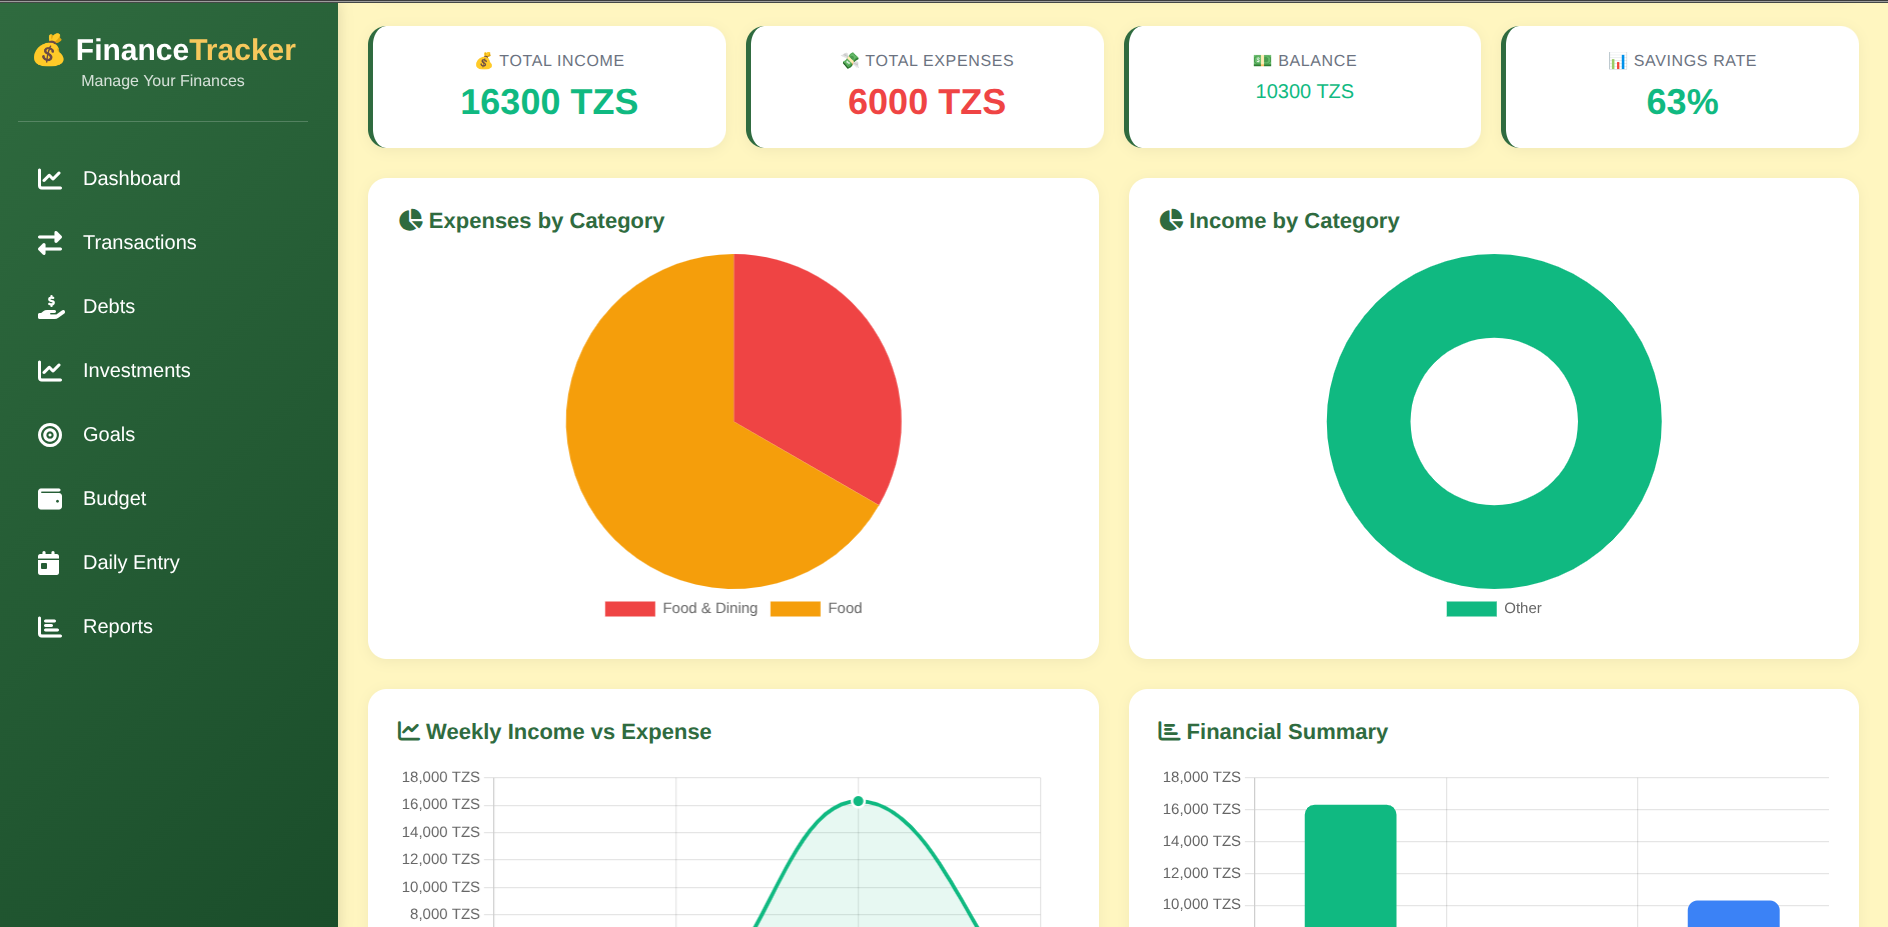
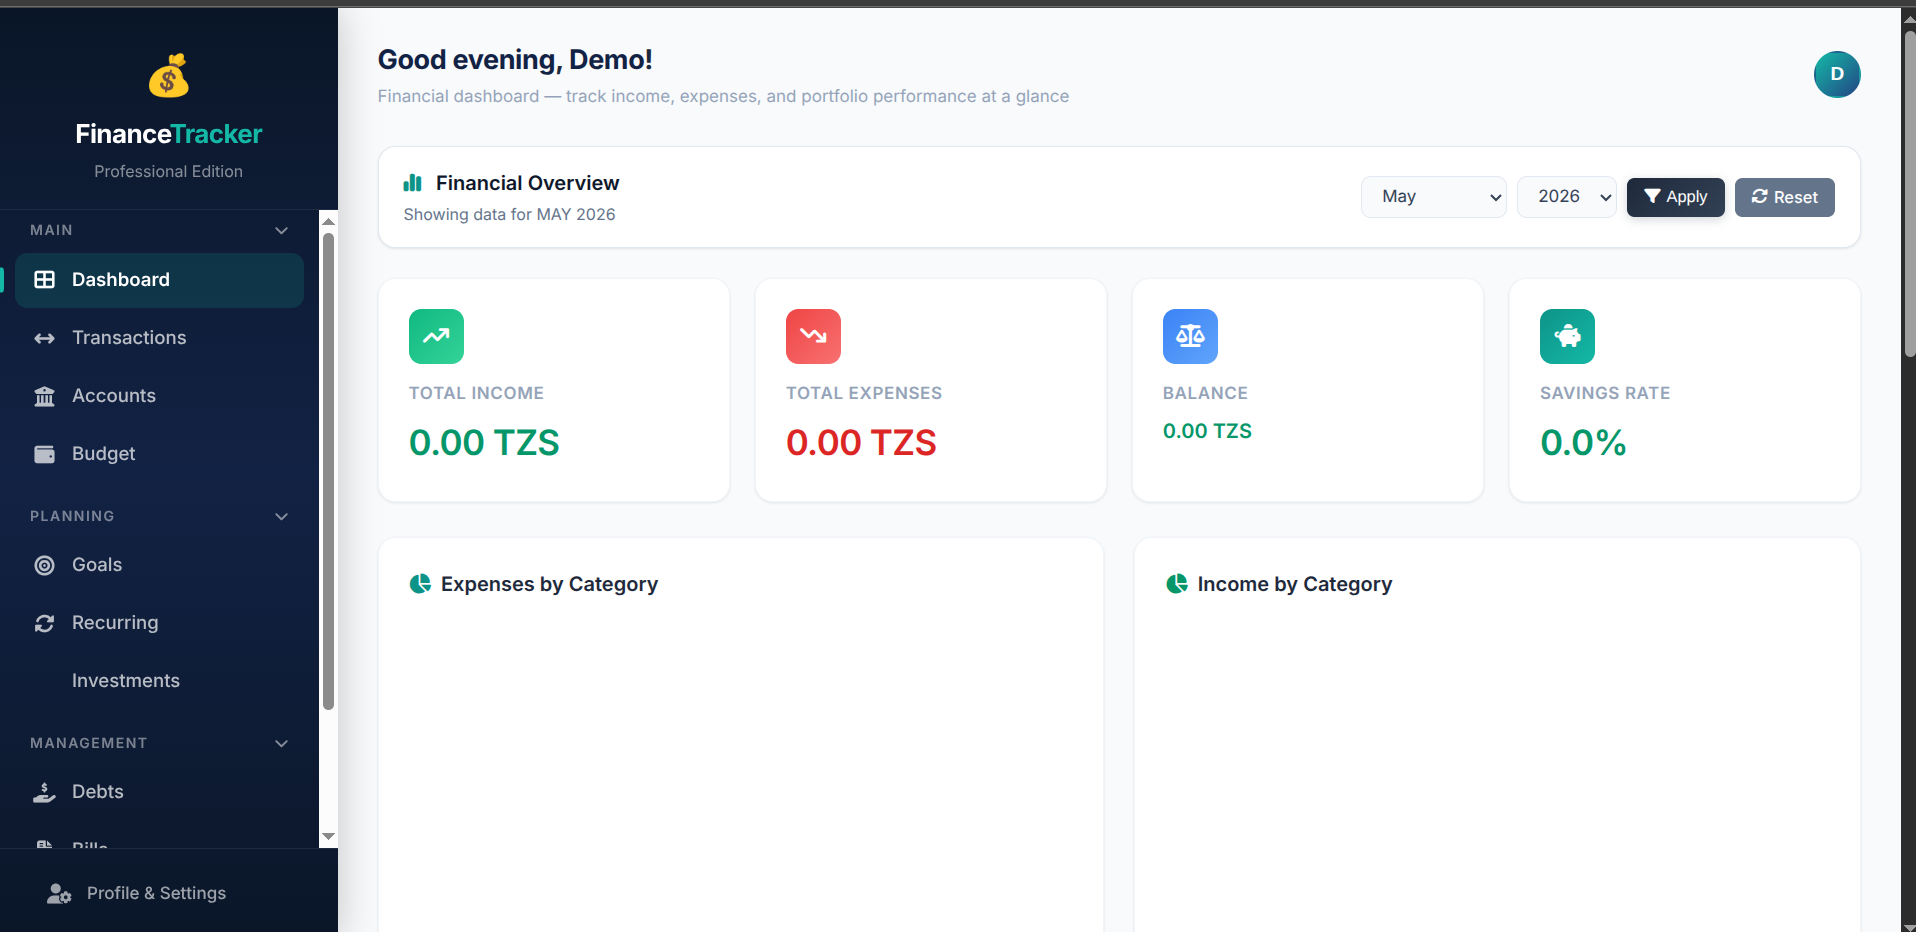
v3.2

diff --git a/src/main/resources/templates/goals/projection.html b/src/main/resources/templates/goals/projection.html
@@ -41,15 +41,15 @@
             <div class="stat-grid">
                 <div class="stat">
                     <div class="label">Target</div>
-                    <div class="value" th:text="${#numbers.formatDecimal(projection.targetAmount, 1, 2)}">0</div>
+                    <div class="value" th:text="|${#numbers.formatDecimal(projection.targetAmount * conversionRate, 1, 2)} ${userCurrency}|">0</div>
                 </div>
                 <div class="stat">
                     <div class="label">Current</div>
-                    <div class="value" th:text="${#numbers.formatDecimal(projection.currentAmount, 1, 2)}">0</div>
+                    <div class="value" th:text="|${#numbers.formatDecimal(projection.currentAmount * conversionRate, 1, 2)} ${userCurrency}|">0</div>
                 </div>
                 <div class="stat">
                     <div class="label">Remaining</div>
-                    <div class="value" th:text="${#numbers.formatDecimal(projection.remainingAmount, 1, 2)}">0</div>
+                    <div class="value" th:text="|${#numbers.formatDecimal(projection.remainingAmount * conversionRate, 1, 2)} ${userCurrency}|">0</div>
                 </div>
                 <div class="stat" th:if="${projection.daysLeft != null}">
                     <div class="label">Days Left</div>
@@ -59,8 +59,8 @@
 
             <div th:if="${projection.recommendedDaily != null}" style="background: #EBF8FF; border-radius: 8px; padding: 1rem; margin: 1rem 0;">
                 <strong>To reach your goal on time, save:</strong><br>
-                <span th:text="${#numbers.formatDecimal(projection.recommendedDaily, 1, 2)}">0</span> per day or
-                <span th:text="${#numbers.formatDecimal(projection.recommendedMonthly, 1, 2)}">0</span> per month
+                <span th:text="|${#numbers.formatDecimal(projection.recommendedDaily * conversionRate, 1, 2)} ${userCurrency}|">0</span> per day or
+                <span th:text="|${#numbers.formatDecimal(projection.recommendedMonthly * conversionRate, 1, 2)} ${userCurrency}|">0</span> per month
             </div>
 
             <h3 style="color: var(--primary-dark); margin-top: 2rem;">Monthly Forecast</h3>
@@ -71,14 +71,14 @@
                 <thead>
                     <tr>
                         <th>Month</th>
-                        <th>Projected Amount</th>
+                        <th th:text="'Projected Amount (' + ${userCurrency} + ')'">Projected Amount (TZS)</th>
                         <th>Status</th>
                     </tr>
                 </thead>
                 <tbody>
                     <tr th:each="point : ${projection.forecast}">
                         <td th:text="'Month ' + ${point.month}">1</td>
-                        <td style="font-weight: 600;" th:text="${#numbers.formatDecimal(point.projectedAmount, 1, 2)}">0</td>
+                        <td style="font-weight: 600;" th:text="|${#numbers.formatDecimal(point.projectedAmount * conversionRate, 1, 2)} ${userCurrency}|">0</td>
                         <td><span class="tracking" th:classappend="${point.onTrack ? 'on-track' : 'off-track'}" th:text="${point.onTrack ? 'On Track' : 'Behind'}">Status</span></td>
                     </tr>
                 </tbody>

diff --git a/src/main/resources/templates/reports/tax.html b/src/main/resources/templates/reports/tax.html
@@ -33,24 +33,24 @@
         <div class="tax-summary">
             <div class="tax-card">
                 <div class="label">Total Income</div>
-                <div class="value positive" th:text="${#numbers.formatDecimal(taxReport.totalIncome, 1, 2)}">0</div>
+                <div class="value positive" th:text="|${#numbers.formatDecimal(taxReport.totalIncome * conversionRate, 1, 2)} ${userCurrency}|">0</div>
             </div>
             <div class="tax-card">
                 <div class="label">Total Expenses</div>
-                <div class="value negative" th:text="${#numbers.formatDecimal(taxReport.totalExpenses, 1, 2)}">0</div>
+                <div class="value negative" th:text="|${#numbers.formatDecimal(taxReport.totalExpenses * conversionRate, 1, 2)} ${userCurrency}|">0</div>
             </div>
             <div class="tax-card">
                 <div class="label">Deductible Expenses</div>
-                <div class="value positive" th:text="${#numbers.formatDecimal(taxReport.totalDeductible, 1, 2)}">0</div>
+                <div class="value positive" th:text="|${#numbers.formatDecimal(taxReport.totalDeductible * conversionRate, 1, 2)} ${userCurrency}|">0</div>
             </div>
             <div class="tax-card" style="border: 2px solid var(--primary-dark);">
                 <div class="label">Taxable Income</div>
-                <div class="value" th:text="${#numbers.formatDecimal(taxReport.taxableIncome, 1, 2)}">0</div>
+                <div class="value" th:text="|${#numbers.formatDecimal(taxReport.taxableIncome * conversionRate, 1, 2)} ${userCurrency}|">0</div>
             </div>
             <div class="tax-card">
                 <div class="label">Net Profit</div>
                 <div class="value" th:classappend="${taxReport.netProfit >= 0 ? 'positive' : 'negative'}"
-                     th:text="${#numbers.formatDecimal(taxReport.netProfit, 1, 2)}">0</div>
+                     th:text="|${#numbers.formatDecimal(taxReport.netProfit * conversionRate, 1, 2)} ${userCurrency}|">0</div>
             </div>
             <div class="tax-card">
                 <div class="label">Transactions</div>
@@ -66,13 +66,13 @@
             <thead>
                 <tr>
                     <th>Category</th>
-                    <th>Amount</th>
+                    <th th:text="'Amount (' + ${userCurrency} + ')'">Amount (TZS)</th>
                 </tr>
             </thead>
             <tbody>
                 <tr th:each="entry : ${taxReport.deductibleExpenses}">
                     <td th:text="${entry.key}">Category</td>
-                    <td style="font-weight: 600;" th:text="${#numbers.formatDecimal(entry.value, 1, 2)}">0.00</td>
+                    <td style="font-weight: 600;" th:text="|${#numbers.formatDecimal(entry.value * conversionRate, 1, 2)} ${userCurrency}|">0.00</td>
                 </tr>
             </tbody>
         </table>

diff --git a/src/main/resources/templates/reports/index.html b/src/main/resources/templates/reports/index.html
@@ -189,23 +189,23 @@
                             </td>
                             <td style="text-align:right; font-weight:600;"
                                 th:classappend="${tx.type == 'INCOME' ? 'positive' : 'negative'}"
-                                th:text="${(tx.type == 'INCOME' ? '+' : '-') + #numbers.formatDecimal(tx.amount, 1, 0)}"></td>
+                                th:text="${(tx.type == 'INCOME' ? '+' : '-') + #numbers.formatDecimal(tx.amount * conversionRate, 1, 0)}"></td>
                         </tr>
                     </tbody>
                     <tfoot style="border-top: 2px solid var(--gray-300); font-weight: 700;">
                         <tr>
                             <td colspan="4" style="text-align:right; padding:0.6rem 1rem; color: var(--primary-dark);">TOTAL INCOME:</td>
-                            <td style="text-align:right; padding:0.6rem 1rem; color: var(--success);" th:text="'+' + ${#numbers.formatDecimal(monthlyReport.totalIncome, 1, 0)}"></td>
+                            <td style="text-align:right; padding:0.6rem 1rem; color: var(--success);" th:text="'+' + ${#numbers.formatDecimal(monthlyReport.totalIncome * conversionRate, 1, 0)} + ' ' + ${userCurrency}"></td>
                         </tr>
                         <tr>
                             <td colspan="4" style="text-align:right; padding:0.4rem 1rem; color: var(--danger);">TOTAL EXPENSES:</td>
-                            <td style="text-align:right; padding:0.4rem 1rem; color: var(--danger);" th:text="'-' + ${#numbers.formatDecimal(monthlyReport.totalExpense, 1, 0)}"></td>
+                            <td style="text-align:right; padding:0.4rem 1rem; color: var(--danger);" th:text="'-' + ${#numbers.formatDecimal(monthlyReport.totalExpense * conversionRate, 1, 0)} + ' ' + ${userCurrency}"></td>
                         </tr>
                         <tr style="border-top: 1px solid var(--gray-200);">
                             <td colspan="4" style="text-align:right; padding:0.6rem 1rem; font-size:1.05rem; color: var(--gray-800);">NET BALANCE:</td>
                             <td style="text-align:right; padding:0.6rem 1rem; font-size:1.05rem;"
                                 th:classappend="${monthlyReport.balance >= 0 ? 'positive' : 'negative'}"
-                                th:text="${#numbers.formatDecimal(monthlyReport.balance, 1, 0)}"></td>
+                                th:text="${#numbers.formatDecimal(monthlyReport.balance * conversionRate, 1, 0)} + ' ' + ${userCurrency}"></td>
                         </tr>
                     </tfoot>
                 </table>
@@ -230,7 +230,7 @@
                         <tr th:each="entry : ${expenseByCategory}" class="category-row">
                             <td th:text="${entry.key}"></td>
                             <td class="negative" style="font-weight:600;"
-                                th:text="${#numbers.formatDecimal(entry.value, 1, 0)}"></td>
+                                th:text="${#numbers.formatDecimal(entry.value * conversionRate, 1, 0)} + ' ' + ${userCurrency}"></td>
                             <td class="category-bar-cell">
                                 <div class="bar-bg">
                                     <div class="bar-fill"
@@ -244,7 +244,7 @@
                         <tr style="border-top: 2px solid var(--gray-300); font-weight: 700; background: var(--gray-50);">
                             <td style="padding:0.6rem 1rem; color: var(--primary-dark);">TOTAL EXPENSES</td>
                             <td class="negative" style="font-weight:700; padding:0.6rem 1rem; font-size:1rem;"
-                                th:text="${#numbers.formatDecimal(monthlyReport.totalExpense, 1, 0)}"></td>
+                                th:text="${#numbers.formatDecimal(monthlyReport.totalExpense * conversionRate, 1, 0)} + ' ' + ${userCurrency}"></td>
                             <td class="category-bar-cell" style="padding:0.6rem 1rem;">
                                 <div class="bar-bg">
                                     <div class="bar-fill" style="width: 100%; background: var(--danger);"></div>

diff --git a/src/main/resources/templates/budget/index.html b/src/main/resources/templates/budget/index.html
@@ -162,8 +162,8 @@
                     <tbody>
                         <tr th:each="entry : ${budget.categoryBudgets}">
                             <td th:text="${entry.key}">Category</td>
-                            <td th:text="${#numbers.formatDecimal(entry.value.planned, 1, 0)}">Planned</td>
-                            <td th:text="${#numbers.formatDecimal(entry.value.actual, 1, 0)}">Actual</td>
+                            <td th:text="|${#numbers.formatDecimal(entry.value.planned * conversionRate, 1, 0)} ${userCurrency}|">Planned</td>
+                            <td th:text="|${#numbers.formatDecimal(entry.value.actual * conversionRate, 1, 0)} ${userCurrency}|">Actual</td>
                             <td>
                                 <div class="progress-container" th:if="${entry.value.planned > 0}">
                                     <div class="progress-bar" 
@@ -176,7 +176,7 @@
                                 </div>
                             </td>
                             <td th:class="${entry.value.variance > 0 ? 'over-budget' : 'under-budget'}" 
-                                th:text="${(entry.value.variance > 0 ? '+' : '') + #numbers.formatDecimal(entry.value.variance, 1, 0)}">Variance</td>
+                                th:text="${(entry.value.variance > 0 ? '+' : '') + #numbers.formatDecimal(entry.value.variance * conversionRate, 1, 0)} + ' ' + ${userCurrency}">Variance</td>
                             <td>
                                 <span th:if="${entry.value.variance > 0}" class="badge badge-danger">⚠️ Over</span>
                                 <span th:if="${entry.value.variance < 0}" class="badge badge-success">✅ Under</span>

diff --git a/src/main/resources/templates/goals/projections.html b/src/main/resources/templates/goals/projections.html
@@ -35,8 +35,8 @@
                     <div class="progress-bar-fill" th:style="'width: ' + ${p.progressPercentage} + '%'"></div>
                 </div>
                 <div style="display: flex; justify-content: space-between; font-size: 0.85rem; color: var(--gray-500);">
-                    <span th:text="${#numbers.formatDecimal(p.currentAmount, 1, 2)}">0</span>
-                    <span th:text="${#numbers.formatDecimal(p.targetAmount, 1, 2)}">Target</span>
+                    <span th:text="|${#numbers.formatDecimal(p.currentAmount * conversionRate, 1, 2)} ${userCurrency}|">0</span>
+                    <span th:text="|${#numbers.formatDecimal(p.targetAmount * conversionRate, 1, 2)} ${userCurrency}|">Target</span>
                 </div>
                 <div style="margin-top: 1rem; padding-top: 1rem; border-top: 1px solid var(--gray-200);">
                     <div th:if="${p.daysLeft != null}" style="display: flex; justify-content: space-between; font-size: 0.9rem;">
@@ -45,7 +45,7 @@
                     </div>
                     <div th:if="${p.recommendedMonthly != null}" style="display: flex; justify-content: space-between; font-size: 0.9rem;">
                         <span>Recommended monthly:</span>
-                        <strong th:text="${#numbers.formatDecimal(p.recommendedMonthly, 1, 2)}">0</strong>
+                        <strong th:text="|${#numbers.formatDecimal(p.recommendedMonthly * conversionRate, 1, 2)} ${userCurrency}|">0</strong>
                     </div>
                 </div>
                 <a th:href="@{/goals/projection/{id}(id=${p.id})}" class="btn btn-primary" style="margin-top: 1rem; display: block; text-align: center;">

diff --git a/src/main/resources/templates/recurring/index.html b/src/main/resources/templates/recurring/index.html
@@ -33,7 +33,7 @@
             <thead>
                 <tr>
                     <th>Description</th>
-                    <th>Amount</th>
+                    <th th:text="'Amount (' + ${userCurrency} + ')'">Amount (TZS)</th>
                     <th>Type</th>
                     <th>Category</th>
                     <th>Frequency</th>
@@ -45,7 +45,7 @@
             <tbody>
                 <tr th:each="rt : ${recurringList}">
                     <td th:text="${rt.description}">Description</td>
-                    <td style="font-weight: 600;" th:text="${#numbers.formatDecimal(rt.amount, 1, 2)}">0.00</td>
+                    <td style="font-weight: 600;" th:text="|${#numbers.formatDecimal(rt.amount * conversionRate, 1, 2)} ${userCurrency}|">0.00</td>
                     <td><span class="badge" th:classappend="${rt.type == 'INCOME' ? 'badge-income' : 'badge-expense'}" th:text="${rt.type}">Type</span></td>
                     <td th:text="${rt.category}">Category</td>
                     <td th:text="${rt.frequency}">Frequency</td>

diff --git a/src/main/resources/templates/accounts/index.html b/src/main/resources/templates/accounts/index.html
@@ -60,7 +60,7 @@
         <div class="total-balance-card">
             <div>
                 <div class="label">Total Balance</div>
-                <div class="amount" th:text="${#numbers.formatDecimal(totalBalance, 1, 2)}">0.00</div>
+                <div class="amount" th:text="|${#numbers.formatDecimal(totalBalance * conversionRate, 1, 2)} ${userCurrency}|">0.00</div>
             </div>
             <a href="/accounts/add" class="btn">
                 <i class="fas fa-plus"></i> Add Account

diff --git a/src/main/resources/templates/excel/daily-entry.html b/src/main/resources/templates/excel/daily-entry.html
@@ -391,7 +391,7 @@
                                        onchange="updatePrepaidTotal()">
                                 <span class="prepaid-checkbox-name" th:text="${bill.name}">Prepaid</span>
                                 <span class="prepaid-checkbox-balance"
-                                      th:text="|${#numbers.formatDecimal(bill.amount,1,0)} ${userCurrency} remaining|">
+                                      th:text="|${#numbers.formatDecimal(bill.amount * conversionRate,1,0)} ${userCurrency} remaining|">
                                 </span>
                             </label>
                         </th:block>

diff --git a/src/main/java/com/master/finance/config/CacheConfig.java b/src/main/java/com/master/finance/config/CacheConfig.java
@@ -8,33 +8,26 @@ import org.springframework.context.annotation.Configuration;
 
 import java.util.Arrays;
 
-/**
- * Cache configuration for performance optimization
- */
 @Configuration
 @EnableCaching
 public class CacheConfig {
 
     @Bean
     public CacheManager cacheManager() {
-        ConcurrentMapCacheManager cacheManager = new ConcurrentMapCacheManager();
-        
-        // Define cache regions for different data types
-        cacheManager.setCacheNames(Arrays.asList(
-            "transactions",      // User transactions
-            "dashboard",         // Dashboard statistics
-            "budgets",           // Budget data
-            "debts",             // Debt information
-            "investments",       // Investment data
-            "goals",             // Goal data
-            "reports",           // Report calculations
-            "userStats",         // User statistics
-            "exchangeRates"      // Currency exchange rates
+        ConcurrentMapCacheManager cm = new ConcurrentMapCacheManager();
+        cm.setCacheNames(Arrays.asList(
+            "transactions",
+            "dashboard",
+            "budgets",
+            "debts",
+            "investments",
+            "goals",
+            "reports",
+            "userStats",
+            "exchangeRates",
+            "users"
         ));
-        
-        // Allow null values in cache
-        cacheManager.setAllowNullValues(true);
-        
-        return cacheManager;
+        cm.setAllowNullValues(true);
+        return cm;
     }
 }

diff --git a/src/main/java/com/master/finance/service/CacheEvictionService.java b/src/main/java/com/master/finance/service/CacheEvictionService.java
@@ -1,0 +1,25 @@
+package com.master.finance.service;
+
+import org.springframework.beans.factory.annotation.Autowired;
+import org.springframework.cache.CacheManager;
+import org.springframework.scheduling.annotation.Scheduled;
+import org.springframework.stereotype.Service;
+
+@Service
+public class CacheEvictionService {
+
+    @Autowired
+    private CacheManager cacheManager;
+
+    @Scheduled(fixedRate = 21600000)
+    public void evictExchangeRatesCache() {
+        org.springframework.cache.Cache cache = cacheManager.getCache("exchangeRates");
+        if (cache != null) cache.clear();
+    }
+
+    @Scheduled(fixedRate = 3600000)
+    public void evictUsersCache() {
+        org.springframework.cache.Cache cache = cacheManager.getCache("users");
+        if (cache != null) cache.clear();
+    }
+}

diff --git a/src/main/java/com/master/finance/config/WebConfig.java b/src/main/java/com/master/finance/config/WebConfig.java
@@ -1,17 +1,23 @@
 package com.master.finance.config;
 
 import org.springframework.context.annotation.Configuration;
+import org.springframework.http.CacheControl;
 import org.springframework.web.servlet.config.annotation.ResourceHandlerRegistry;
 import org.springframework.web.servlet.config.annotation.WebMvcConfigurer;
+
+import java.util.concurrent.TimeUnit;
 
 @Configuration
 public class WebConfig implements WebMvcConfigurer {
     
     @Override
     public void addResourceHandlers(ResourceHandlerRegistry registry) {
+        CacheControl cacheControl = CacheControl.maxAge(365, TimeUnit.DAYS).cachePublic();
         registry.addResourceHandler("/css/**")
-                .addResourceLocations("classpath:/static/css/");
+                .addResourceLocations("classpath:/static/css/")
+                .setCacheControl(cacheControl);
         registry.addResourceHandler("/js/**")
-                .addResourceLocations("classpath:/static/js/");
+                .addResourceLocations("classpath:/static/js/")
+                .setCacheControl(cacheControl);
     }
 }

diff --git a/src/main/java/com/master/finance/config/GlobalControllerAdvice.java b/src/main/java/com/master/finance/config/GlobalControllerAdvice.java
@@ -53,12 +53,17 @@ public class GlobalControllerAdvice {
     @ModelAttribute("passwordExpired")
     public boolean addPasswordExpired(Authentication authentication) {
         User user = getCurrentUser(authentication);
-        return user != null && userService.isPasswordExpired(user);
+        return user != null && user.getPasswordChangedAt() != null
+            && user.getPasswordChangedAt().plusDays(90).isBefore(java.time.LocalDateTime.now());
     }
 
     @ModelAttribute("passwordDaysRemaining")
     public long addPasswordDaysRemaining(Authentication authentication) {
         User user = getCurrentUser(authentication);
-        return user != null ? userService.getPasswordDaysRemaining(user) : 90;
+        if (user == null || user.getPasswordChangedAt() == null) return 90;
+        return java.time.LocalDateTime.now().until(
+            user.getPasswordChangedAt().plusDays(90),
+            java.time.temporal.ChronoUnit.DAYS
+        );
     }
 }